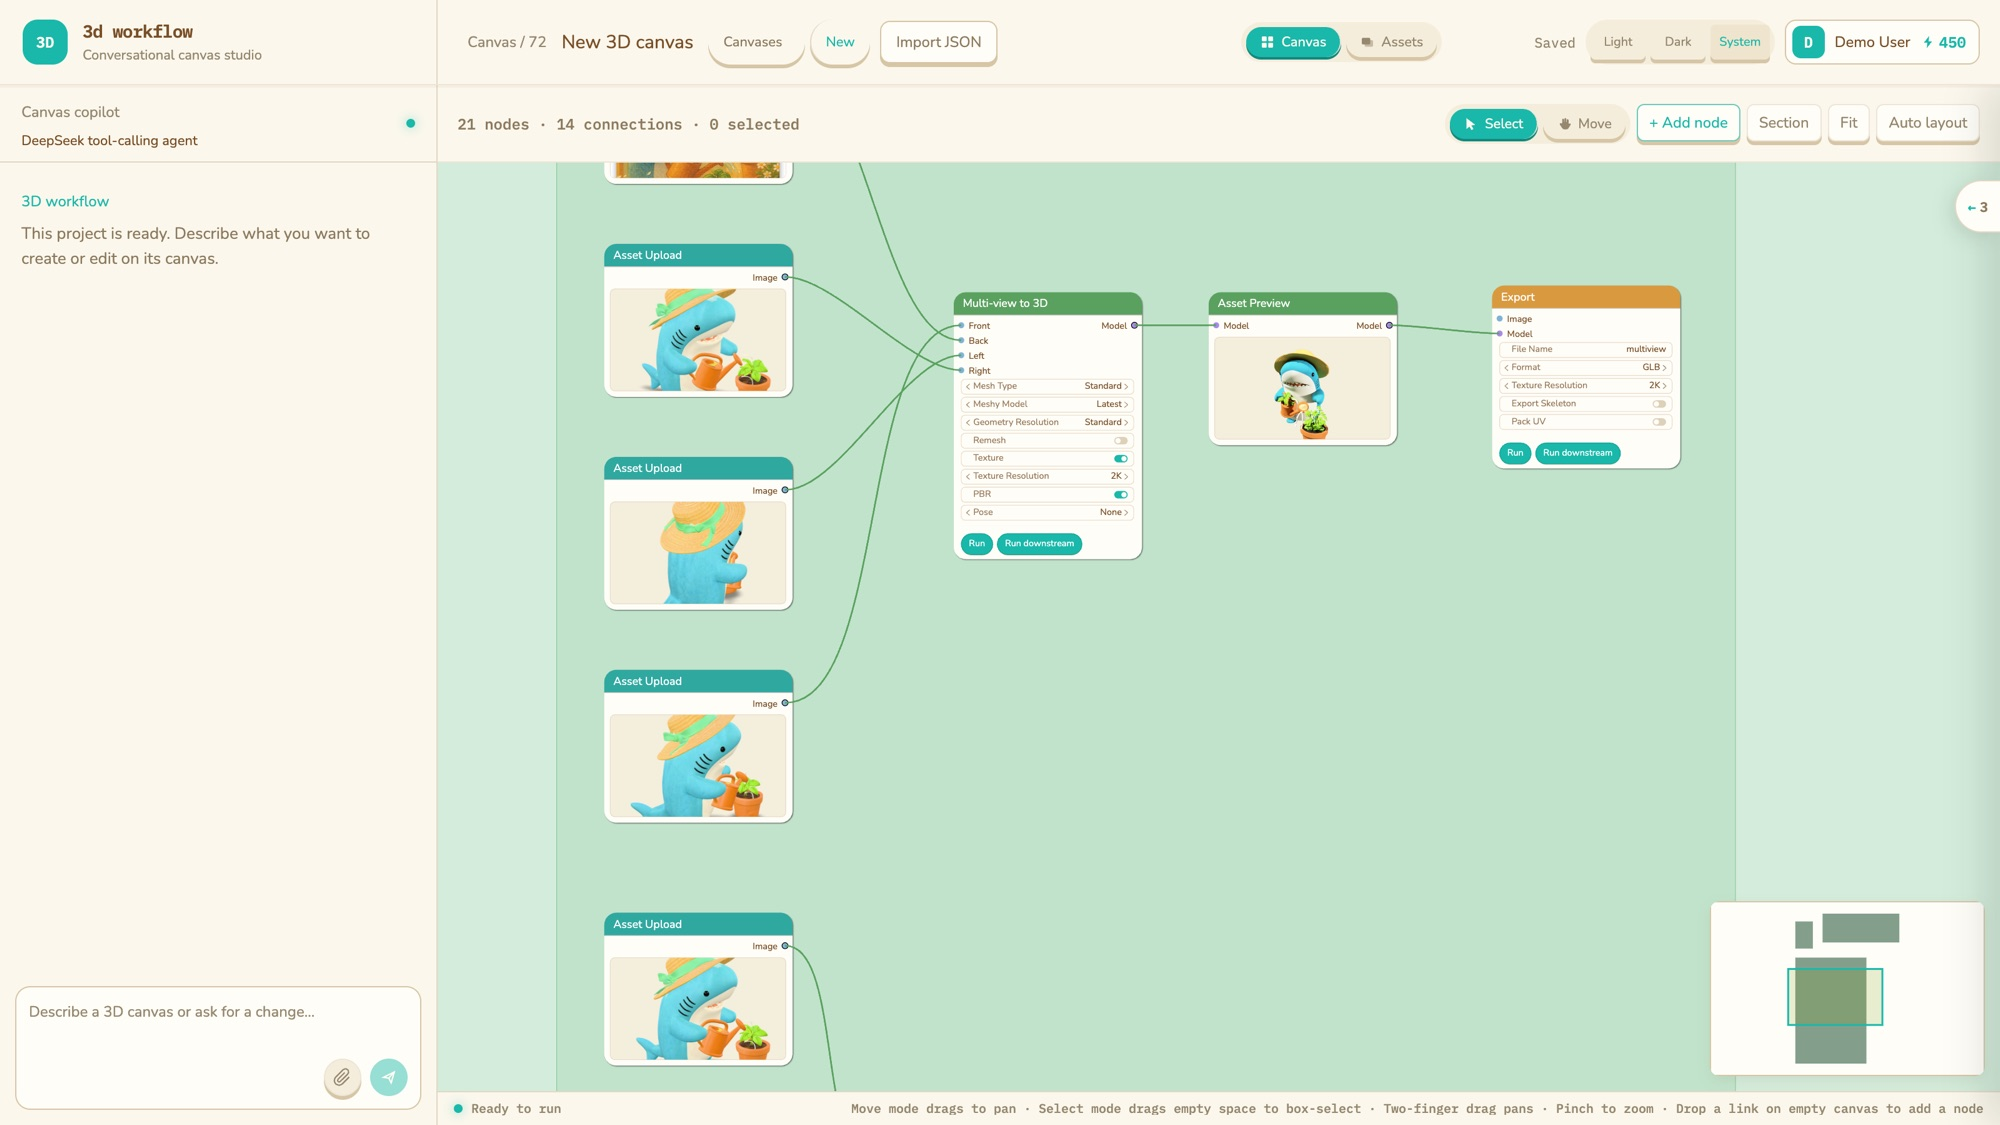
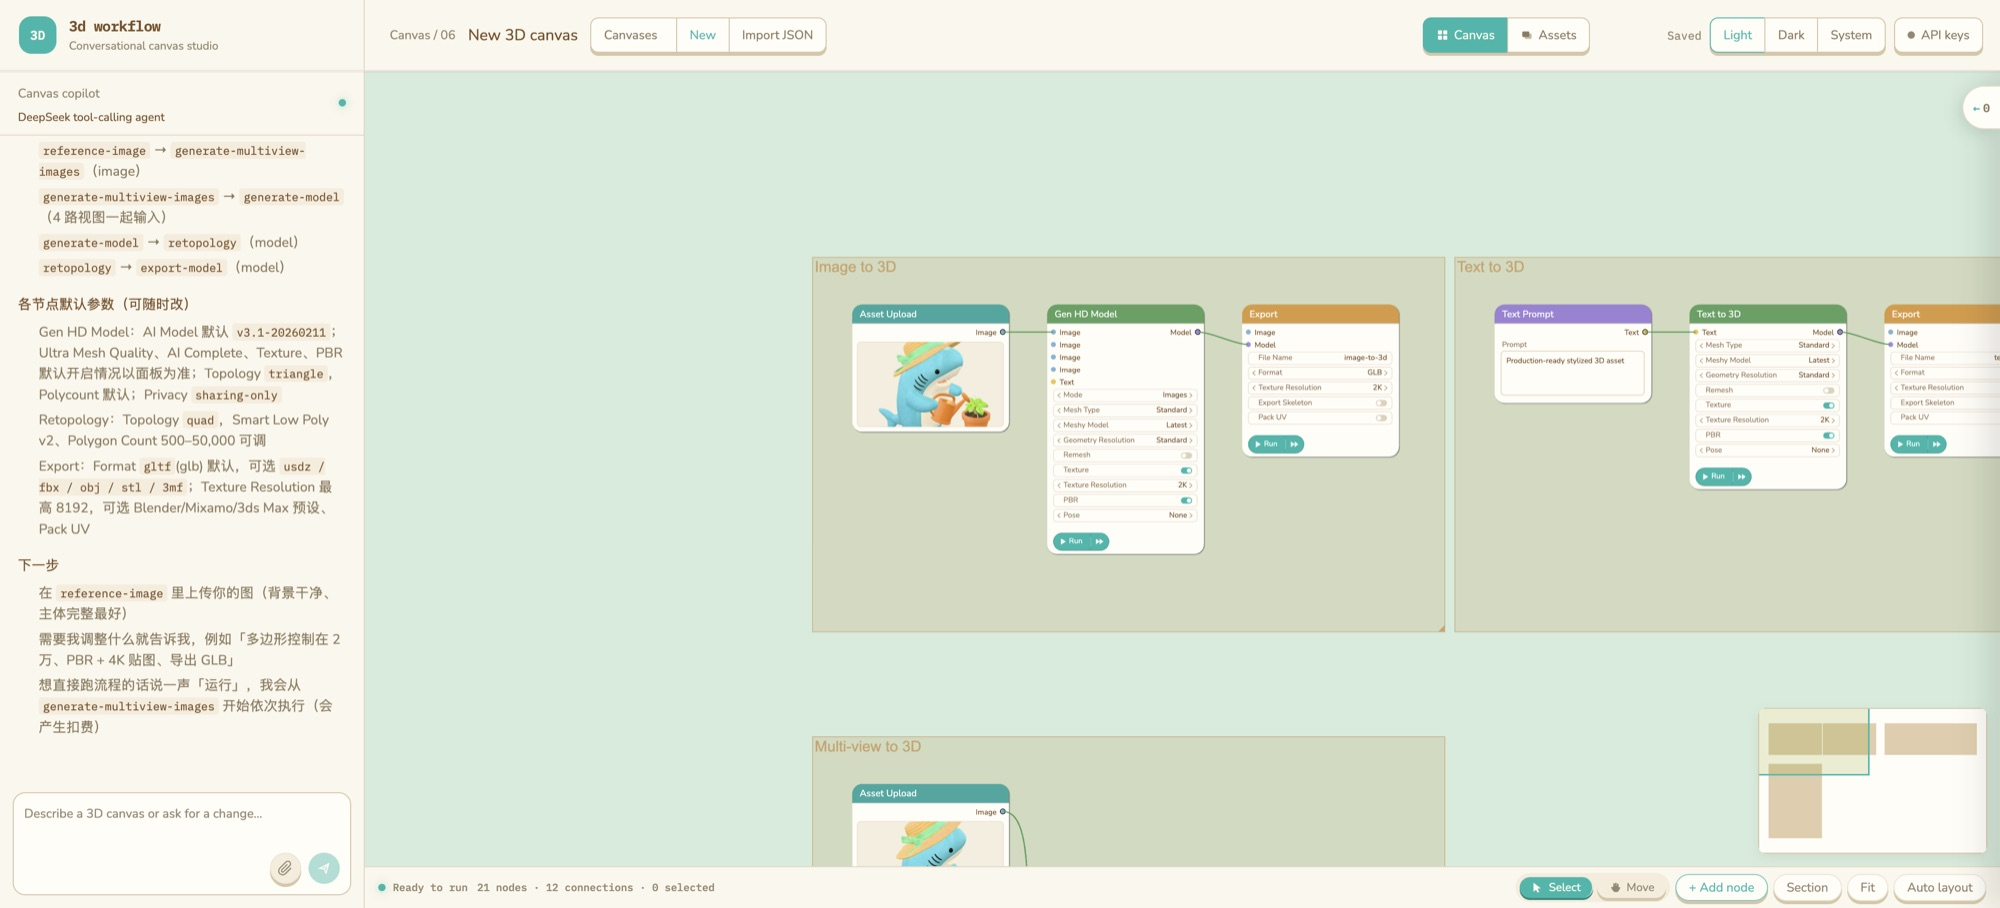
feat: join Run and Run downstream into one node capsule; refresh README screenshot

diff --git a/src/litegraph-canvas.ts b/src/litegraph-canvas.ts
@@ -316,19 +316,36 @@ function actionIcon(id: string) {
   return ''
 }
 
+// Run and Run downstream share one capsule: a play segment with the "Run"
+// label, then an icon-only fast-forward segment butted against it.
+const RUN_GROUP_TAIL = 30
+function actionWidth(action: { id: string; label: string }, inner: number, kind: 'icon' | 'text') {
+  if (kind === 'icon') return ACTION_SIZE
+  if (action.id === 'run') return Math.ceil(measureText('Run') + 37)
+  if (action.id === 'downstream') return RUN_GROUP_TAIL
+  return Math.min(inner, Math.max(ACTION_SIZE, Math.ceil(measureText(action.label) + 20)))
+}
+
 function packActions(actions: { id: string; label: string }[], width: number, kind: 'icon' | 'text') {
   const inner = Math.max(40, width - ACTION_INSET * 2)
-  const rows: { id: string; label: string; kind: 'icon' | 'text'; w: number }[][] = []
-  let row: { id: string; label: string; kind: 'icon' | 'text'; w: number }[] = []
+  const rows: { id: string; label: string; kind: 'icon' | 'text'; w: number; joined: boolean }[][] = []
+  let row: { id: string; label: string; kind: 'icon' | 'text'; w: number; joined: boolean }[] = []
   let used = 0
   for (const action of actions) {
-    const w = kind === 'icon' ? ACTION_SIZE : Math.min(inner, Math.max(ACTION_SIZE, Math.ceil(measureText(action.label) + 20)))
+    const w = actionWidth(action, inner, kind)
+    // The fast-forward half never wraps away from its play half.
+    const joined = action.id === 'downstream' && row[row.length - 1]?.id === 'run'
+    if (joined) {
+      row.push({ ...action, kind, w, joined })
+      used += w
+      continue
+    }
     if (row.length && used + ACTION_GAP + w > inner) {
       rows.push(row)
       row = []
       used = 0
     }
-    row.push({ ...action, kind, w })
+    row.push({ ...action, kind, w, joined })
     used += w + ACTION_GAP
   }
   if (row.length) rows.push(row)
@@ -514,6 +531,7 @@ export function createGraphHost(canvas: HTMLCanvasElement, handlers: GraphHostHa
       ctx.strokeRect(box.x, box.y, box.w, box.h)
     }
     ctx.restore()
+    paintActionTooltip(ctx)
   }
   let flowEdges: any[] = []
   const images = new Map<string, HTMLImageElement>()
@@ -894,6 +912,10 @@ export function createGraphHost(canvas: HTMLCanvasElement, handlers: GraphHostHa
   const clearLinkHover = () => {
     setHoverLink(null)
     setHoverWidget(null)
+    if (hoverActionKey) {
+      hoverActionKey = null
+      view.setDirty(true, true)
+    }
   }
   canvas.addEventListener('pointerleave', clearLinkHover)
 
@@ -1954,7 +1976,7 @@ export function createGraphHost(canvas: HTMLCanvasElement, handlers: GraphHostHa
   // in the node's own coordinates. A DOM button kept its own position and
   // stayed where the node used to be.
   function localActions(node: any) {
-    const buttons: { key: string; nodeId: string; id: string; label: string; x: number; y: number; w: number; h: number }[] = []
+    const buttons: { key: string; nodeId: string; id: string; label: string; x: number; y: number; w: number; h: number; joined?: boolean }[] = []
     if (node.flags?.collapsed) return buttons
     const flow = flowNodes.find((item) => item.id === node.properties.forgeId)
     if (!flow) return buttons
@@ -1972,7 +1994,8 @@ export function createGraphHost(canvas: HTMLCanvasElement, handlers: GraphHostHa
     for (const row of textRows) {
       let x = ACTION_INSET
       for (const item of row) {
-        buttons.push({ key: `${flow.id}:${item.id}`, nodeId: flow.id, id: item.id, label: item.label, x, y, w: item.w, h: ACTION_SIZE })
+        if (item.joined) x -= ACTION_GAP
+        buttons.push({ key: `${flow.id}:${item.id}`, nodeId: flow.id, id: item.id, label: item.label, x, y, w: item.w, h: ACTION_SIZE, joined: item.joined })
         x += item.w + ACTION_GAP
       }
       y += ACTION_SIZE + ACTION_GAP
@@ -1993,25 +2016,99 @@ export function createGraphHost(canvas: HTMLCanvasElement, handlers: GraphHostHa
     for (const button of buttons) {
       const hot = hoverActionKey === button.key
       const primary = button.id === 'run' || button.id === 'downstream' || button.id === 'approve'
-      const radius = button.w < 60 ? button.w / 2 : button.h / 2
+      const full = button.w < 60 ? button.w / 2 : button.h / 2
+      // A joined pair is one capsule: the play half rounds its left end, the
+      // fast-forward half rounds its right end.
+      const head = button.id === 'run' && buttons.some((item) => item.joined && item.nodeId === button.nodeId)
+      const radius: number | number[] = head ? [button.h / 2, 0, 0, button.h / 2] : button.joined ? [0, button.h / 2, button.h / 2, 0] : full
+      const shape = (top: number) => {
+        ctx.beginPath()
+        if (ctx.roundRect) ctx.roundRect(button.x, top, button.w, button.h, radius)
+        else ctx.rect(button.x, top, button.w, button.h)
+      }
       // Clear the node body first, then the pill's own drop shadow and face.
       ctx.fillStyle = NODE_BODY_COLOR
-      ctx.fillRect(button.x - 2, button.y - 2, button.w + 4, button.h + 6)
-      ctx.beginPath()
-      if (ctx.roundRect) ctx.roundRect(button.x, button.y + 1, button.w, button.h, radius)
-      else ctx.rect(button.x, button.y + 1, button.w, button.h)
+      ctx.fillRect(button.x - (button.joined ? 0 : 2), button.y - 2, button.w + (head || button.joined ? 2 : 4), button.h + 6)
+      shape(button.y + 1)
       ctx.fillStyle = '#d6c6a6'
       ctx.fill()
-      ctx.beginPath()
-      if (ctx.roundRect) ctx.roundRect(button.x, button.y, button.w, button.h, radius)
-      else ctx.rect(button.x, button.y, button.w, button.h)
-      ctx.fillStyle = primary ? '#19b8aa' : (hot ? palette.hover : palette.field)
+      shape(button.y)
+      ctx.fillStyle = primary ? (hot ? '#2cc7b9' : '#19b8aa') : (hot ? palette.hover : palette.field)
       ctx.fill()
       ctx.strokeStyle = primary ? '#12a294' : (hot ? palette.hoverOutline : palette.outline)
       ctx.stroke()
       ctx.fillStyle = primary ? '#ffffff' : palette.text
-      ctx.fillText(button.label, button.x + button.w / 2, button.y + button.h / 2)
+      const midY = button.y + button.h / 2
+      if (button.joined) {
+        // Divider between the two halves, then a fast-forward glyph.
+        ctx.strokeStyle = 'rgba(255, 255, 255, 0.45)'
+        ctx.beginPath()
+        ctx.moveTo(button.x + 0.5, button.y + 6)
+        ctx.lineTo(button.x + 0.5, button.y + button.h - 6)
+        ctx.stroke()
+        const cx = button.x + button.w / 2 - 1
+        for (const dx of [-5, 1]) {
+          ctx.beginPath()
+          ctx.moveTo(cx + dx, midY - 4.5)
+          ctx.lineTo(cx + dx + 6, midY)
+          ctx.lineTo(cx + dx, midY + 4.5)
+          ctx.closePath()
+          ctx.fill()
+        }
+      } else if (button.id === 'run') {
+        const px = button.x + 12
+        ctx.beginPath()
+        ctx.moveTo(px, midY - 5)
+        ctx.lineTo(px + 8, midY)
+        ctx.lineTo(px, midY + 5)
+        ctx.closePath()
+        ctx.fill()
+        ctx.textAlign = 'left'
+        ctx.fillText(button.label, px + 13, midY)
+        ctx.textAlign = 'center'
+      } else {
+        ctx.fillText(button.label, button.x + button.w / 2, midY)
+      }
     }
+    ctx.restore()
+  }
+
+  // Canvas tooltip for the hovered node action, held at screen size.
+  const ACTION_TIPS: Record<string, string> = { run: 'Run this node', downstream: 'Run downstream' }
+  function paintActionTooltip(ctx: CanvasRenderingContext2D) {
+    if (!hoverActionKey) return
+    const split = hoverActionKey.lastIndexOf(':')
+    const node = byForgeId().get(hoverActionKey.slice(0, split))
+    const button = node && localActions(node).find((item) => item.key === hoverActionKey)
+    const tip = button && ACTION_TIPS[button.id]
+    if (!node || !button || !tip) return
+    const scale = view.ds.scale || 1
+    ctx.save()
+    ctx.translate(node.pos[0] + button.x + button.w / 2, node.pos[1] + button.y + button.h + 6 / scale)
+    ctx.scale(1 / scale, 1 / scale)
+    ctx.font = `12px ${CANVAS_FONT}`
+    const w = Math.ceil(ctx.measureText(tip).width) + 16
+    const h = 24
+    ctx.beginPath()
+    if (ctx.roundRect) ctx.roundRect(-w / 2, 4, w, h, 8)
+    else ctx.rect(-w / 2, 4, w, h)
+    ctx.fillStyle = NODE_INK
+    ctx.shadowColor = 'rgba(126, 92, 54, 0.25)'
+    ctx.shadowBlur = 8
+    ctx.shadowOffsetY = 2
+    ctx.fill()
+    ctx.shadowColor = 'transparent'
+    // Little pointer up toward the button.
+    ctx.beginPath()
+    ctx.moveTo(-5, 5)
+    ctx.lineTo(0, 0)
+    ctx.lineTo(5, 5)
+    ctx.closePath()
+    ctx.fill()
+    ctx.fillStyle = '#fffaf0'
+    ctx.textAlign = 'center'
+    ctx.textBaseline = 'middle'
+    ctx.fillText(tip, 0, 4 + h / 2)
     ctx.restore()
   }
 

diff --git a/README.md b/README.md
@@ -8,7 +8,7 @@ Forge3D is a visual 3D canvas for AI generation workflows. Describe a goal in na
 
 ▶ [Watch the demo video (27 s)](assets/forge3d-shark-demo.mp4)
 
-![Forge3D canvas: four reference views feed Multi-view to 3D, then Asset Preview and Export](assets/canvas-overview.jpg)
+![Forge3D canvas: the Image to 3D and Text to 3D sections, with grouped top bar buttons and the canvas tools in the bottom bar](assets/canvas-overview.jpg)
 
 ## Screenshots
 
@@ -24,7 +24,7 @@ The task list slides in from the right with each run's status, progress, and dow
 
 - Pinch or Ctrl + scroll zooms the canvas, including over node buttons and the minimap. The page itself never zooms.
 - Two-finger drag pans. Move mode drags to pan; Select mode drags empty space to box-select.
-- Drop a link on empty canvas to add a node. Fit and Auto layout are in the canvas toolbar.
+- Drop a link on empty canvas to add a node. Select, Move, Add node, Section, Fit, and Auto layout sit in the bottom bar next to the run status.
 
 ## Features
 
